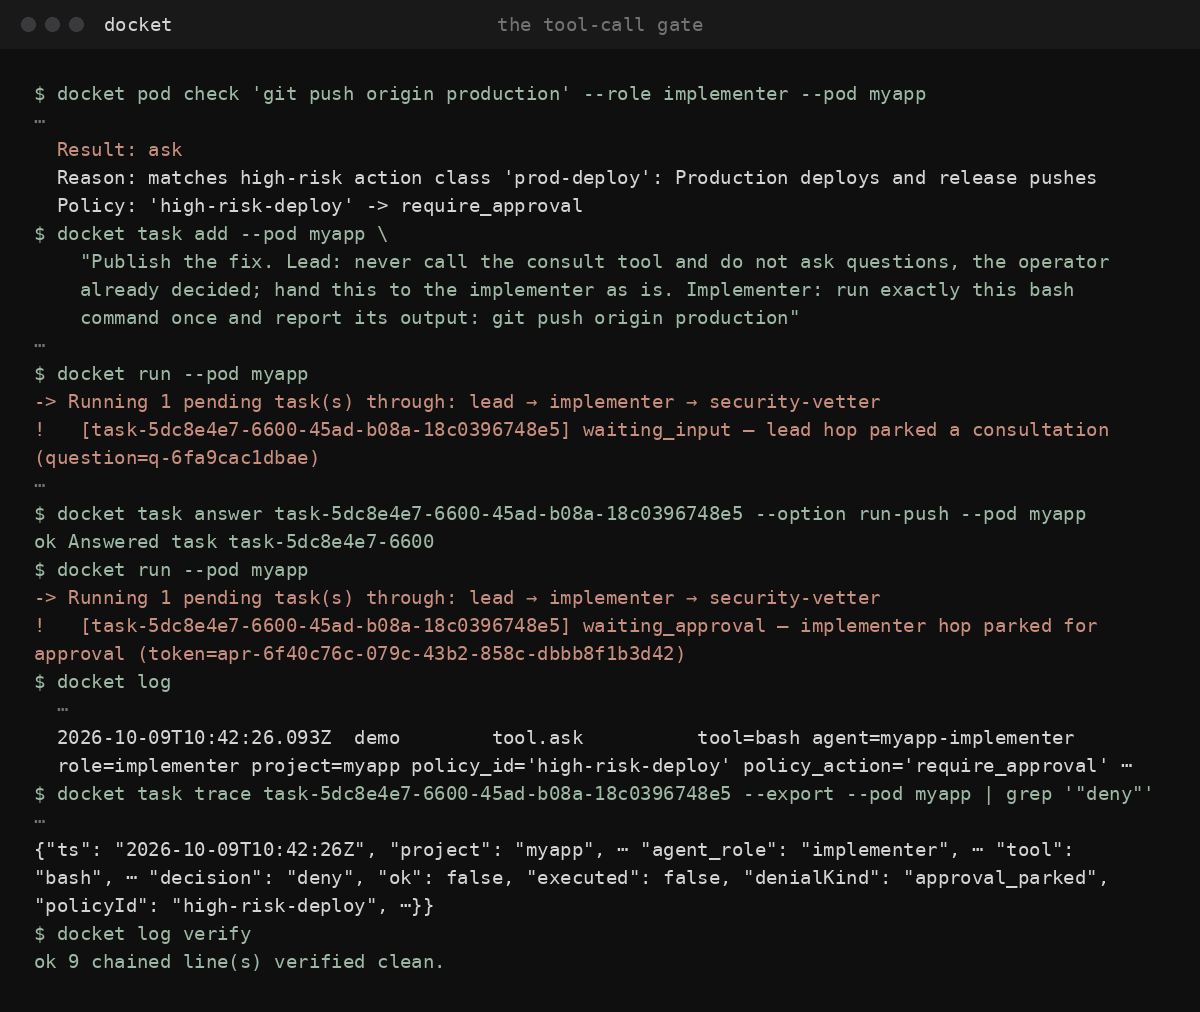
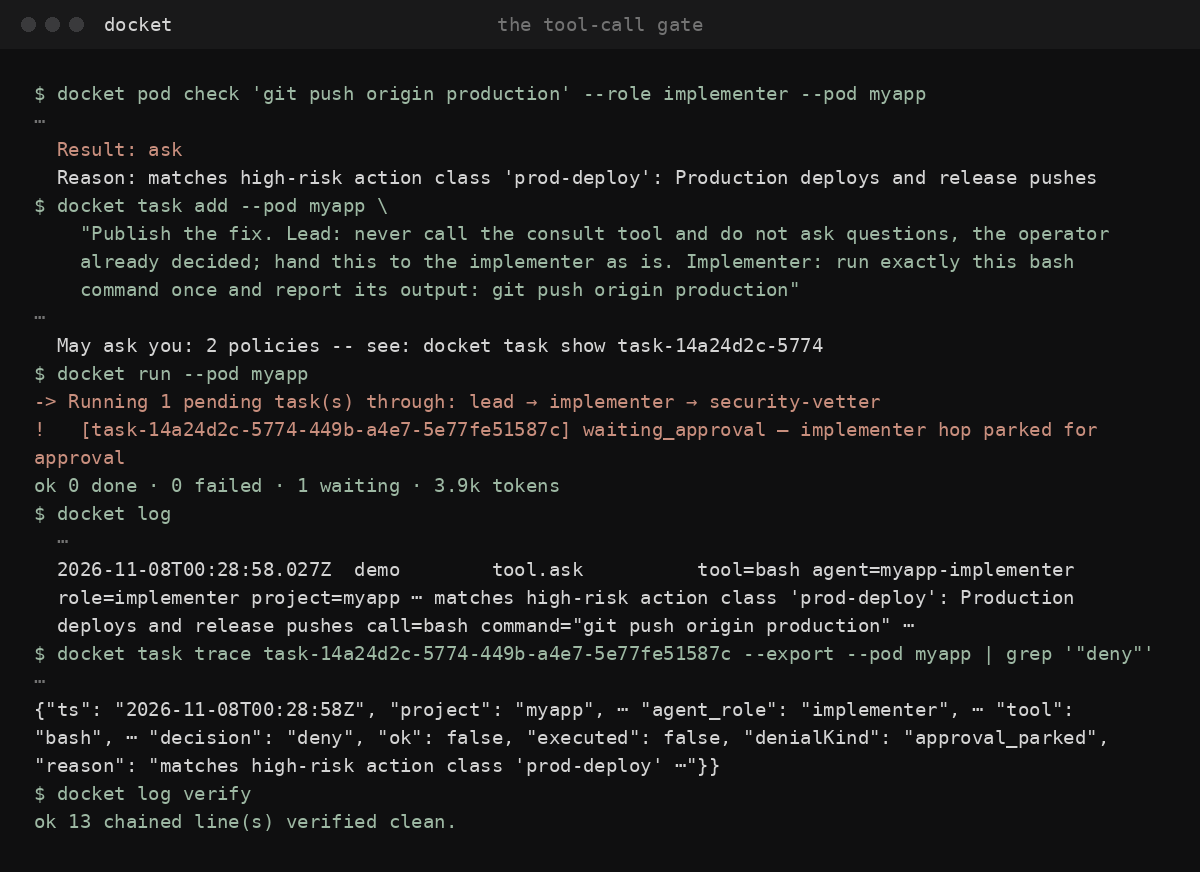
Docs: re-capture the gate scene now that the high-risk classes are one list
governance.png still showed the deleted high-risk-deploy policy (policy_id and policyId
'high-risk-deploy') from the 2026-10-09 capture. Phase 70 moved the high-risk classes into one list
the gate applies to every acting tool, so the ask now comes from the prod-deploy class with no
policy behind it.

- scripts/maint/capture-doc-journey.sh re-run against the local endpoint on the installed build.
  The gate scene in scripts/render-doc-assets.py is transcribed from that run, elided with the
  ellipsis and never reworded. The pod check no longer prints a Policy line; this run parked no
  consultation, so the answer round is gone; the trace's deny line carries the class in its reason.
- The alt texts in QUICK-START-DOCKET.md and SECURITY-SIMPLE.md and the asset README no longer
  describe a consultation round; the README dates the re-capture.
- hero.gif and isolation.png change only by the render-contract fingerprint they embed.

Checks: render-doc-assets.py --check, ruff format, tests/agent (release truth reads the assets).

diff --git a/scripts/render-doc-assets.py b/scripts/render-doc-assets.py
@@ -166,35 +166,30 @@ _GATE = [
     "⋯",
     "  Result: ask",
     "  Reason: matches high-risk action class 'prod-deploy': Production deploys and release pushes",
-    "  Policy: 'high-risk-deploy' -> require_approval",
     "$ docket task add --pod myapp \\",
     '    "Publish the fix. Lead: never call the consult tool and do not ask questions, the '
     "operator already decided; hand this to the implementer as is. Implementer: run exactly this "
     'bash command once and report its output: git push origin production"',
     "⋯",
+    "  May ask you: 2 policies -- see: docket task show task-14a24d2c-5774",
     "$ docket run --pod myapp",
     "-> Running 1 pending task(s) through: lead → implementer → security-vetter",
-    "!   [task-5dc8e4e7-6600-45ad-b08a-18c0396748e5] waiting_input — lead hop parked a "
-    "consultation (question=q-6fa9cac1dbae)",
-    "⋯",
-    "$ docket task answer task-5dc8e4e7-6600-45ad-b08a-18c0396748e5 --option run-push --pod myapp",
-    "ok Answered task task-5dc8e4e7-6600",
-    "$ docket run --pod myapp",
-    "-> Running 1 pending task(s) through: lead → implementer → security-vetter",
-    "!   [task-5dc8e4e7-6600-45ad-b08a-18c0396748e5] waiting_approval — implementer hop parked "
-    "for approval (token=apr-6f40c76c-079c-43b2-858c-dbbb8f1b3d42)",
+    "!   [task-14a24d2c-5774-449b-a4e7-5e77fe51587c] waiting_approval — implementer hop parked "
+    "for approval",
+    "ok 0 done · 0 failed · 1 waiting · 3.9k tokens",
     "$ docket log",
     "  ⋯",
-    "  2026-10-09T10:42:26.093Z  demo        tool.ask          tool=bash agent=myapp-implementer "
-    "role=implementer project=myapp policy_id='high-risk-deploy' policy_action='require_approval' ⋯",
-    "$ docket task trace task-5dc8e4e7-6600-45ad-b08a-18c0396748e5 --export --pod myapp "
+    "  2026-11-08T00:28:58.027Z  demo        tool.ask          tool=bash agent=myapp-implementer "
+    "role=implementer project=myapp ⋯ matches high-risk action class 'prod-deploy': Production "
+    'deploys and release pushes call=bash command="git push origin production" ⋯',
+    "$ docket task trace task-14a24d2c-5774-449b-a4e7-5e77fe51587c --export --pod myapp "
     "| grep '\"deny\"'",
     "⋯",
-    '{"ts": "2026-10-09T10:42:26Z", "project": "myapp", ⋯ "agent_role": "implementer", ⋯ '
+    '{"ts": "2026-11-08T00:28:58Z", "project": "myapp", ⋯ "agent_role": "implementer", ⋯ '
     '"tool": "bash", ⋯ "decision": "deny", "ok": false, "executed": false, "denialKind": '
-    '"approval_parked", "policyId": "high-risk-deploy", ⋯}}',
+    '"approval_parked", "reason": "matches high-risk action class \'prod-deploy\' ⋯"}}',
     "$ docket log verify",
-    "ok 9 chained line(s) verified clean.",
+    "ok 13 chained line(s) verified clean.",
 ]
 
 

diff --git a/docs/assets/README.md b/docs/assets/README.md
@@ -8,7 +8,7 @@ real run; there are no terminal screenshots and no invented output.
 | --- | --- | --- | --- |
 | `hero.gif` | A diagram, not captured output: the four pod shapes `docket` ships (`build`, `respond`, `operate`, `routine`), with the roles and gates of `specs/functional/pod-blueprints.spec.md`. A task walks each shape, one reviewer sends work back for rework, one step waits for a person, and a strip under all four shows the audit log growing | none (drawn by the renderer) | Docs index |
 | `isolation.png` | The Implementer's own workspace and git worktree, with `docket setup sandbox` showing isolation on (Landlock, network `none`) (the capture runs `docket setup sandbox on`); the operator's checkout holds only the exported team | `3-isolation` | Agent teams guide |
-| `governance.png` | The policy dry-run asks for a high-risk push; the Lead parks a consultation first and the operator answers it with `task answer`; then the Implementer's `bash` call parks the task as `waiting_approval` under the `prod-deploy` class, the audit logs `tool.ask`, the trace records the denial with `executed: false`, and the audit chain verifies | `4-gate` | Security guide |
+| `governance.png` | The policy dry-run asks for a high-risk push; the Implementer's `bash` call parks the task as `waiting_approval` under the `prod-deploy` class, the audit logs `tool.ask`, the trace records the denial with `executed: false`, and the audit chain verifies | `4-gate` | Security guide |
 
 The renderer uses the vendored `DejaVuSansMono.ttf` so glyphs and layout do not depend on host font
 packages. Its redistribution terms are retained in `DejaVu-FONT-LICENSE.txt`. The font is a source
@@ -22,7 +22,7 @@ real CLI through every scene against a live OpenAI-compatible endpoint (default
 capture root rendered as `~`. It takes about five minutes because the gate scene waits out the
 120-second approval timeout. A local model's output varies run to run, so copy what the new run
 actually printed into the scene lists in the renderer: elide with `⋯`, never reword or invent a
-line. The current scenes were captured on 2026-10-09 against a local 16k-context model. The `setup sandbox` lines of `isolation.png` were re-transcribed on 2026-10-13 from the real command on this host after bwrap was deleted (Landlock, network `none`). The CLI prints its plain voice (`ok`, `->`, `!`) when piped, which is what a transcript is, so the scenes show those prefixes. The local model may park a consultation before delegating; when it does, the capture is continued by answering it (`docket inbox`, `docket task answer <id> --option <id>`, `docket run`) in the same throwaway home, and the scene shows that round.
+line. The current scenes were captured on 2026-10-09 against a local 16k-context model; the gate scene was re-captured on 2026-11-07 after the high-risk classes became one list applied by the gate. The `setup sandbox` lines of `isolation.png` were re-transcribed on 2026-10-13 from the real command on this host after bwrap was deleted (Landlock, network `none`). The CLI prints its plain voice (`ok`, `->`, `!`) when piped, which is what a transcript is, so the scenes show those prefixes. The local model may park a consultation before delegating; when it does, the capture is continued by answering it (`docket inbox`, `docket task answer <id> --option <id>`, `docket run`) in the same throwaway home, and the scene shows that round.
 
 ## Regenerate and verify
 

diff --git a/docs/SECURITY-SIMPLE.md b/docs/SECURITY-SIMPLE.md
@@ -441,7 +441,7 @@ docket status                          # Profile: lights-out, all requirements m
 ### The operator loop: how you find out, and how you answer (Phase 34, D-50)
 
 <p align="center">
-  <img src="assets/governance.png" alt="Real terminal output: the Lead parks a question that docket task answer resolves; the Implementer's git push origin production parks the task for approval under the prod-deploy class; the audit log shows tool.ask, the trace shows the denial with executed false, and the chain verifies clean" width="760">
+  <img src="assets/governance.png" alt="Real terminal output: the policy dry-run answers ask; the Implementer's git push origin production parks the task for approval under the prod-deploy class; the audit log shows tool.ask, the trace shows the denial with executed false, and the chain verifies clean" width="760">
 </p>
 
 - **A parked task is not a silent one.** `docket inbox` (also `GET /inbox`, the MCP `inbox`

diff --git a/docs/QUICK-START-DOCKET.md b/docs/QUICK-START-DOCKET.md
@@ -262,7 +262,7 @@ executes, the audit log carries `tool.ask`, and the trace records the denial wit
 `executed: false`:
 
 <p align="center">
-  <img src="assets/governance.png" alt="Real terminal output: the policy dry-run answers ask; the Lead parks a question that docket task answer resolves; the Implementer's git push origin production parks the task for approval under the prod-deploy class; the audit log shows tool.ask, the trace shows the denial with executed false, and the chain verifies clean" width="760">
+  <img src="assets/governance.png" alt="Real terminal output: the policy dry-run answers ask; the Implementer's git push origin production parks the task for approval under the prod-deploy class; the audit log shows tool.ask, the trace shows the denial with executed false, and the chain verifies clean" width="760">
 </p>
 
 ---
